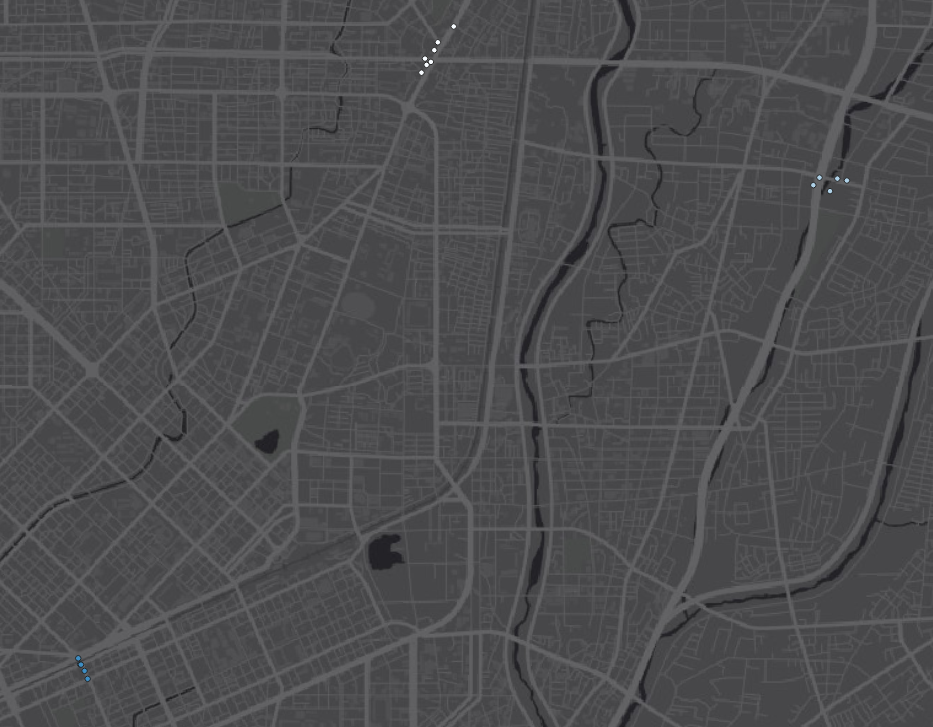
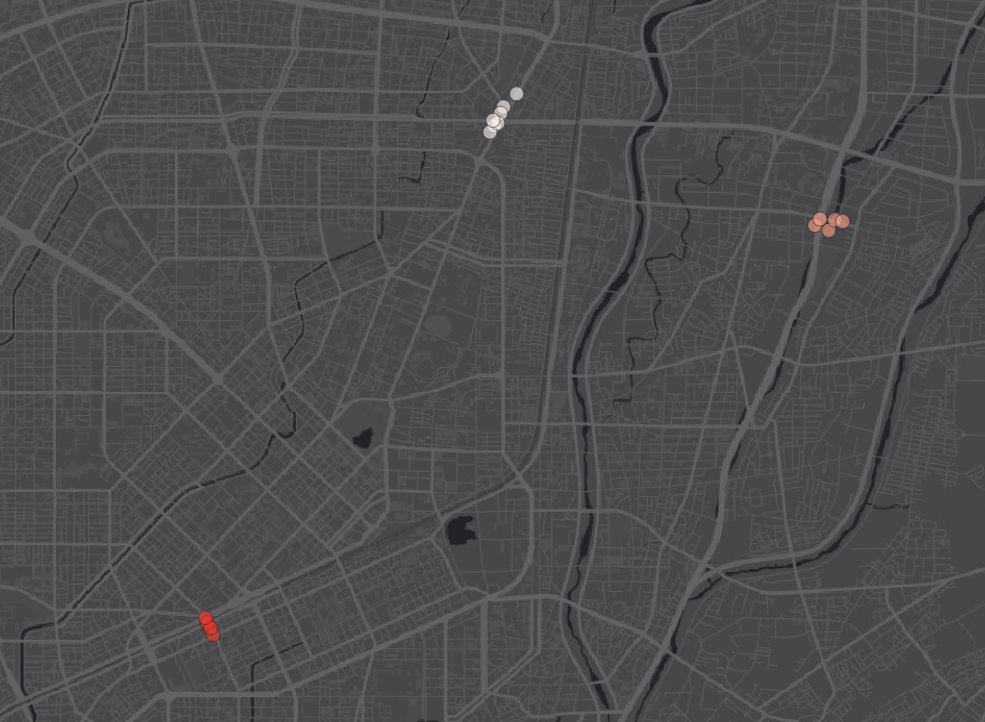
iconography changes and bike project blog finished

diff --git a/docs/projects/taichung-bike/taichung-bike.html b/docs/projects/taichung-bike/taichung-bike.html
@@ -40,7 +40,7 @@ ul.task-list li input[type="checkbox"] {
 <link href="../../site_libs/quarto-html/quarto-syntax-highlighting-ed96de9b727972fe78a7b5d16c58bf87.css" rel="stylesheet" id="quarto-text-highlighting-styles">
 <script src="../../site_libs/bootstrap/bootstrap.min.js"></script>
 <link href="../../site_libs/bootstrap/bootstrap-icons.css" rel="stylesheet">
-<link href="../../site_libs/bootstrap/bootstrap-0fd1b71543d8bf8cdfb07400f92235b4.min.css" rel="stylesheet" append-hash="true" id="quarto-bootstrap" data-mode="light">
+<link href="../../site_libs/bootstrap/bootstrap-7b694229f9d488b7aeb18301bbbce405.min.css" rel="stylesheet" append-hash="true" id="quarto-bootstrap" data-mode="light">
 <script id="quarto-search-options" type="application/json">{
   "location": "navbar",
   "copy-button": false,
@@ -153,6 +153,7 @@ window.Quarto = {
   <li><a href="#data-cleaning" id="toc-data-cleaning" class="nav-link" data-scroll-target="#data-cleaning">Data Cleaning</a></li>
   <li><a href="#exploring-data" id="toc-exploring-data" class="nav-link" data-scroll-target="#exploring-data">Exploring Data</a></li>
   <li><a href="#dbscan" id="toc-dbscan" class="nav-link" data-scroll-target="#dbscan">DBSCAN</a></li>
+  <li><a href="#the-hotspots" id="toc-the-hotspots" class="nav-link" data-scroll-target="#the-hotspots">The Hotspots</a></li>
   </ul>
 </nav>
 </nav>
@@ -232,6 +233,7 @@ window.Quarto = {
 <p style="text-align: center;">
 (example cluster; data points are from completely different roads)
 </p>
+<p>Then I moved onto <span class="math inline">\(\epsilon\)</span> = 180, which provided better results but still had loose clusters where data points weren’t related to one another.</p>
 <img src="180m5.png" alt="Map showing bike lanes in Taichung and traffic accidents">
 <p style="text-align: center;">
 (hotspot clusters derived from DBSCAN with <span class="math inline">\(\epsilon\)</span> = 180 meters and n = 5)
@@ -240,6 +242,7 @@ window.Quarto = {
 <p style="text-align: center;">
 (example cluster; some clusters are still from different roads)
 </p>
+<p>At <span class="math inline">\(\epsilon\)</span> = 150, the clusters looked like what I was hoping for. All of them were very concentrated with data points and all the data points were related to each other whether that be they’re on the same road or same intersection.</p>
 <img src="150m5.png" alt="Map showing bike lanes in Taichung and traffic accidents">
 <p style="text-align: center;">
 (hotspot clusters derived from DBSCAN with <span class="math inline">\(\epsilon\)</span> = 150 meters and n = 5)
@@ -248,6 +251,20 @@ window.Quarto = {
 <p style="text-align: center;">
 (example cluster; clusters are now compact and traffically related)
 </p>
+</section>
+<section id="the-hotspots" class="level2">
+<h2 class="anchored" data-anchor-id="the-hotspots">The Hotspots</h2>
+<p>At last, I’ve identified three hotspots, all located in the city center. We can individually look at each hotspot.</p>
+<p>The first hotspot (dark red) is along Xuefu Rd (學府路), from its intersection with Fuxing Rd Sec 3 (復興路三段)up to its intersection with Jianguo N Rd Sec 3 (建國北路三段).</p>
+<iframe src="https://www.google.com/maps/embed?pb=!4v1770516055498!6m8!1m7!1slD266vBgdl496gzB88ncOw!2m2!1d24.13114564096557!2d120.6730204646949!3f351.32436975189165!4f0.43719019798376735!5f0.5520113146339419" width="600" height="450" style="border:0;" allowfullscreen="" loading="lazy" referrerpolicy="no-referrer-when-downgrade">
+</iframe>
+<p>The second hotspot (pink) is along Yuxian Rd (育賢路) with its intersection with Huanzhong E Rd Sec 3 (環中東路三段).</p>
+<iframe src="https://www.google.com/maps/embed?pb=!4v1770516872236!6m8!1m7!1sKeBa-ETxZ7jwT5AL3IyRzA!2m2!1d24.15837935138429!2d120.7178400684109!3f1.12!4f-7.019999999999996!5f0.4000000000000002" width="600" height="450" style="border:0;" allowfullscreen="" loading="lazy" referrerpolicy="no-referrer-when-downgrade">
+</iframe>
+<p>The third hotspot (gray) is along Beitun Rd (北屯路) near its intersection with Taiyuan Rd Sec 3 (太原路三段).</p>
+<iframe src="https://www.google.com/maps/embed?pb=!4v1770516288416!6m8!1m7!1s5cMCrr8PXTLQjJrpxxqicA!2m2!1d24.16478322719237!2d120.6942223431201!3f3.171194314876857!4f-6.274869041961779!5f0.4000000000000002" width="600" height="450" style="border:0;" allowfullscreen="" loading="lazy" referrerpolicy="no-referrer-when-downgrade">
+</iframe>
+<p>All of these are large, complicated intersections with wide roads of multiple lanes, as well as cars and motorcycles coming from all directions. It’s no surprise that these are among the most dangerous hotspots for bikers in the city. These three locations are all urgent, dangerous zones that the Taichung City Department of Transportation should investigate. Not to mention that the data used in this project only included the first 11 months of 2025. These intersections have likely been dangerous for years more, having caused traffic accidents of tens or even hundreds of people.</p>
 
 
 </section>

diff --git a/docs/index.html b/docs/index.html
@@ -40,7 +40,7 @@ ul.task-list li input[type="checkbox"] {
 <link href="site_libs/quarto-html/quarto-syntax-highlighting-ed96de9b727972fe78a7b5d16c58bf87.css" rel="stylesheet" id="quarto-text-highlighting-styles">
 <script src="site_libs/bootstrap/bootstrap.min.js"></script>
 <link href="site_libs/bootstrap/bootstrap-icons.css" rel="stylesheet">
-<link href="site_libs/bootstrap/bootstrap-0fd1b71543d8bf8cdfb07400f92235b4.min.css" rel="stylesheet" append-hash="true" id="quarto-bootstrap" data-mode="light">
+<link href="site_libs/bootstrap/bootstrap-7b694229f9d488b7aeb18301bbbce405.min.css" rel="stylesheet" append-hash="true" id="quarto-bootstrap" data-mode="light">
 <script id="quarto-search-options" type="application/json">{
   "location": "navbar",
   "copy-button": false,

diff --git a/docs/projects.html b/docs/projects.html
@@ -40,7 +40,7 @@ ul.task-list li input[type="checkbox"] {
 <link href="site_libs/quarto-html/quarto-syntax-highlighting-ed96de9b727972fe78a7b5d16c58bf87.css" rel="stylesheet" id="quarto-text-highlighting-styles">
 <script src="site_libs/bootstrap/bootstrap.min.js"></script>
 <link href="site_libs/bootstrap/bootstrap-icons.css" rel="stylesheet">
-<link href="site_libs/bootstrap/bootstrap-0fd1b71543d8bf8cdfb07400f92235b4.min.css" rel="stylesheet" append-hash="true" id="quarto-bootstrap" data-mode="light">
+<link href="site_libs/bootstrap/bootstrap-7b694229f9d488b7aeb18301bbbce405.min.css" rel="stylesheet" append-hash="true" id="quarto-bootstrap" data-mode="light">
 <script id="quarto-search-options" type="application/json">{
   "location": "navbar",
   "copy-button": false,

diff --git a/docs/styles.css b/docs/styles.css
@@ -10,8 +10,8 @@
       z-index: 1001;
   }
   #quarto-header{
-    background-color: #E8E6E6; 
     padding-top: 3.5rem;
+    background-color: #E8E6E6;
   }
   .content {
     max-width: 40rem;
@@ -80,4 +80,7 @@ img {
   width: 100%;
   height: auto;
   display: block;
+}
+iframe{
+  width: 100%; 
 }

diff --git a/styles.css b/styles.css
@@ -10,8 +10,8 @@
       z-index: 1001;
   }
   #quarto-header{
-    background-color: #E8E6E6; 
     padding-top: 3.5rem;
+    background-color: #E8E6E6;
   }
   .content {
     max-width: 40rem;
@@ -80,4 +80,7 @@ img {
   width: 100%;
   height: auto;
   display: block;
+}
+iframe{
+  width: 100%; 
 }
